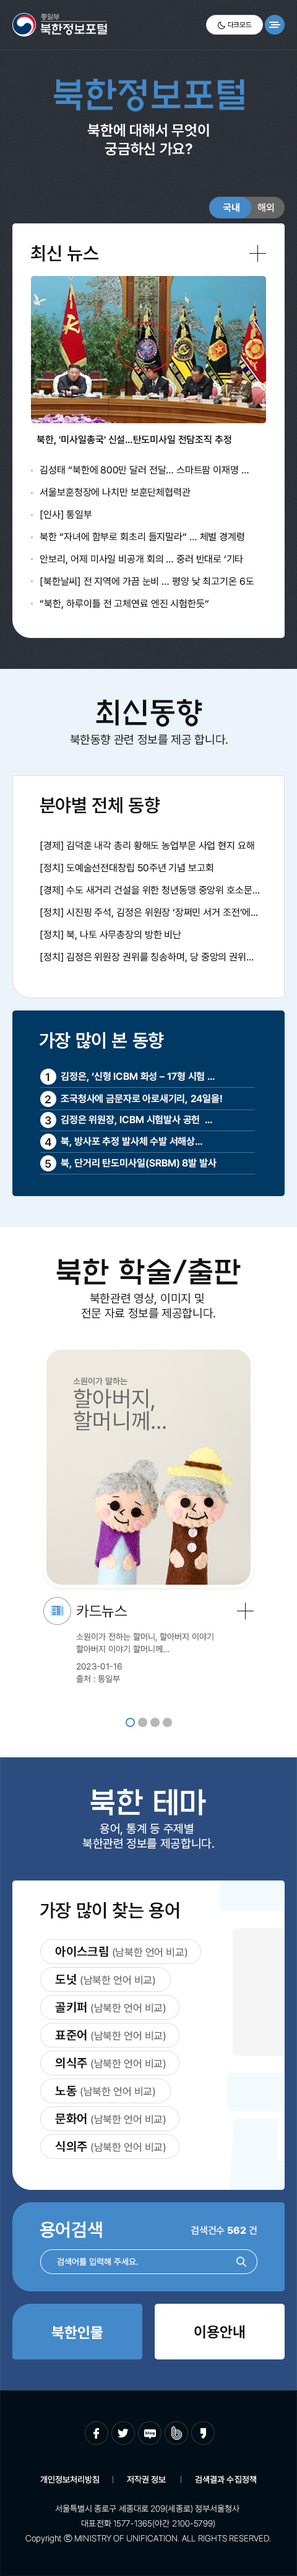
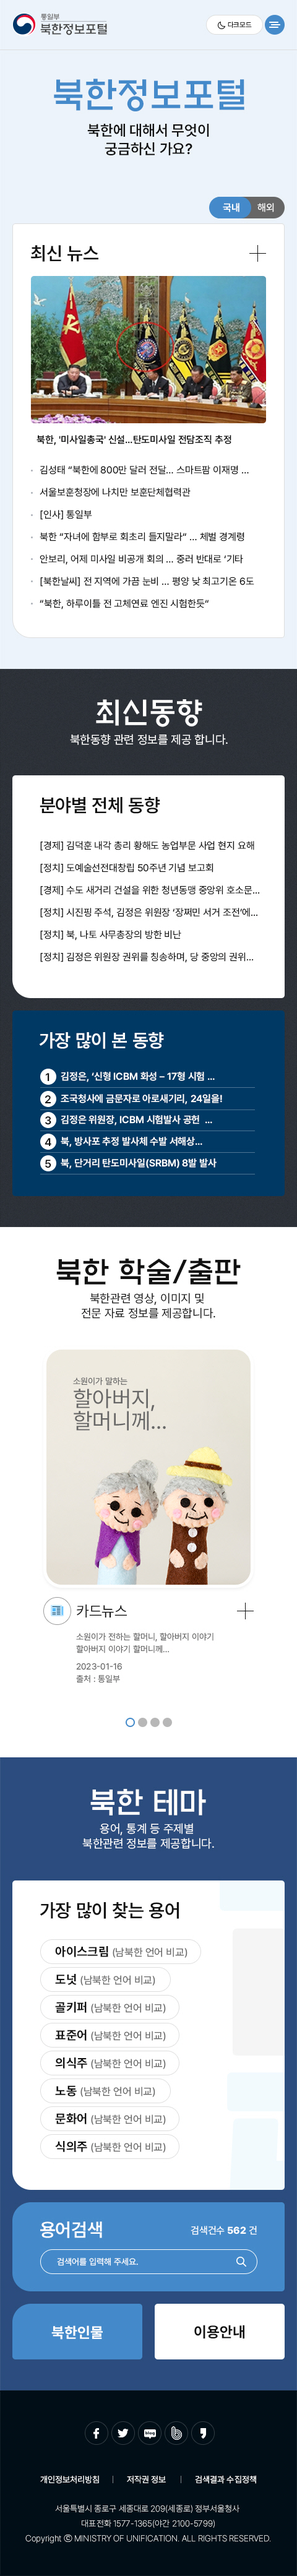
test update

Changed region(s): [[0.0, 0.0, 1.0, 0.4996]]

diff --git a/C_M/index.html b/C_M/index.html
@@ -42,20 +42,20 @@
 <body>
 	<main>
         <header>
-            <img src="./images/C_header.jpg">
+            <img src="./images/C_header.png">
         </header>
 		<div class="slider" id="sliderBody">
 			<div class="slide">
-				<img draggable="false" src="./images/C_1.jpg">
+				<img draggable="false" src="./images/C_1.png">
 			</div>
 			<div class="slide">
-				<img draggable="false" src="./images/C_2.jpg">
+				<img draggable="false" src="./images/C_2.png">
 			</div>
 			<div class="slide">
-				<img draggable="false" src="./images/C_3.jpg">
+				<img draggable="false" src="./images/C_3.png">
 			</div>
 			<div class="slide">
-				<img draggable="false" src="./images/C_4.jpg">
+				<img draggable="false" src="./images/C_4.png">
 			</div>
 			<!-- <div class="slide slide1"></div>
 			<div class="slide slide2"></div>
@@ -64,7 +64,7 @@
 			<div class="slider-navbar" id="sliderNavbar"></div>
 		</div>
         <footer>
-            <img src="./images/C_footer.jpg">
+            <img src="./images/C_footer.png">
         </footer>
 	</main>
 	<script>
